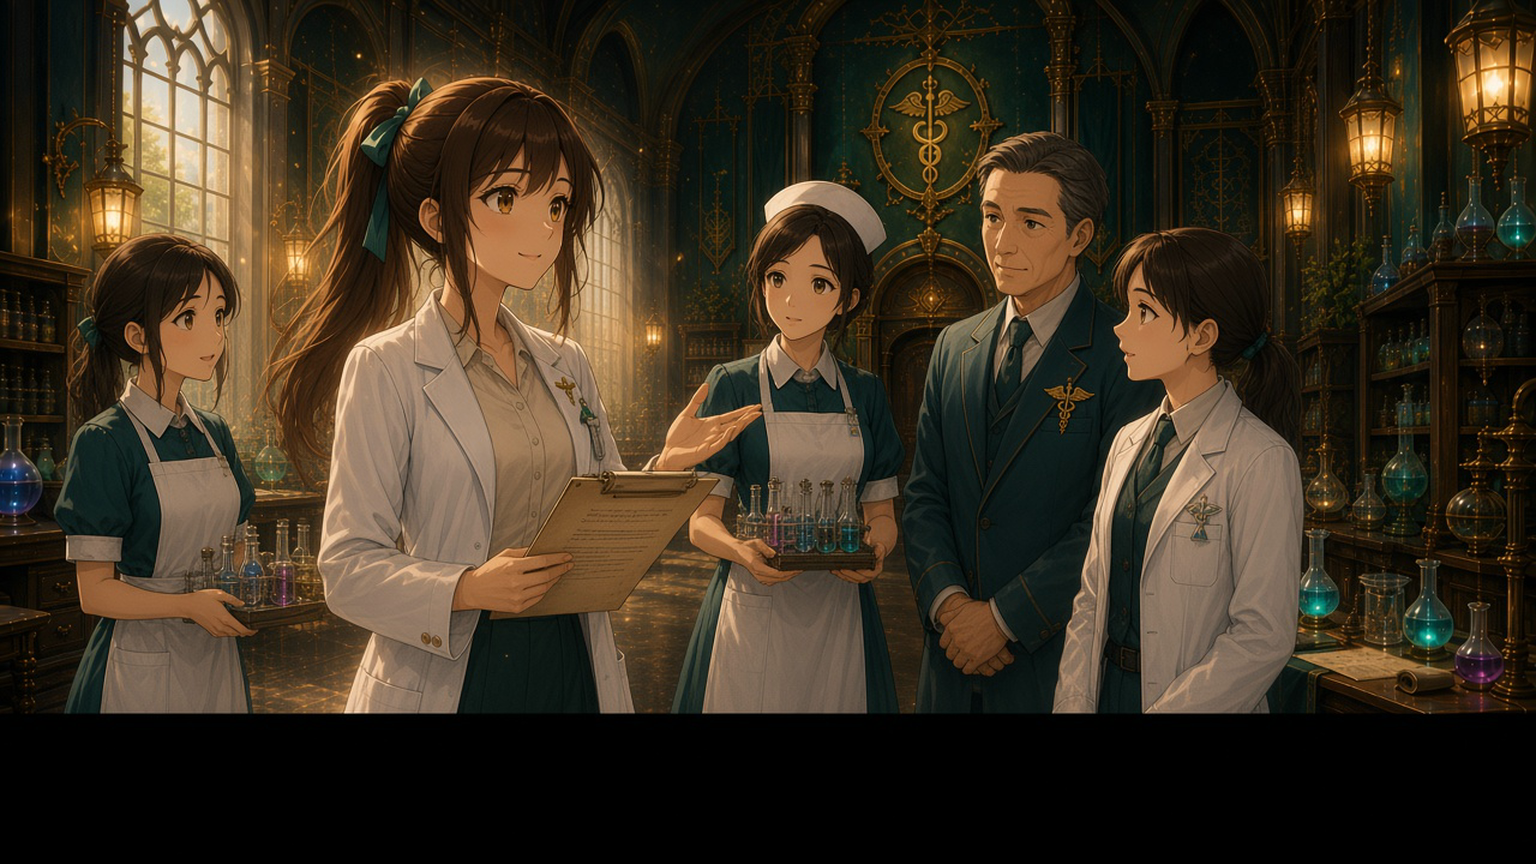
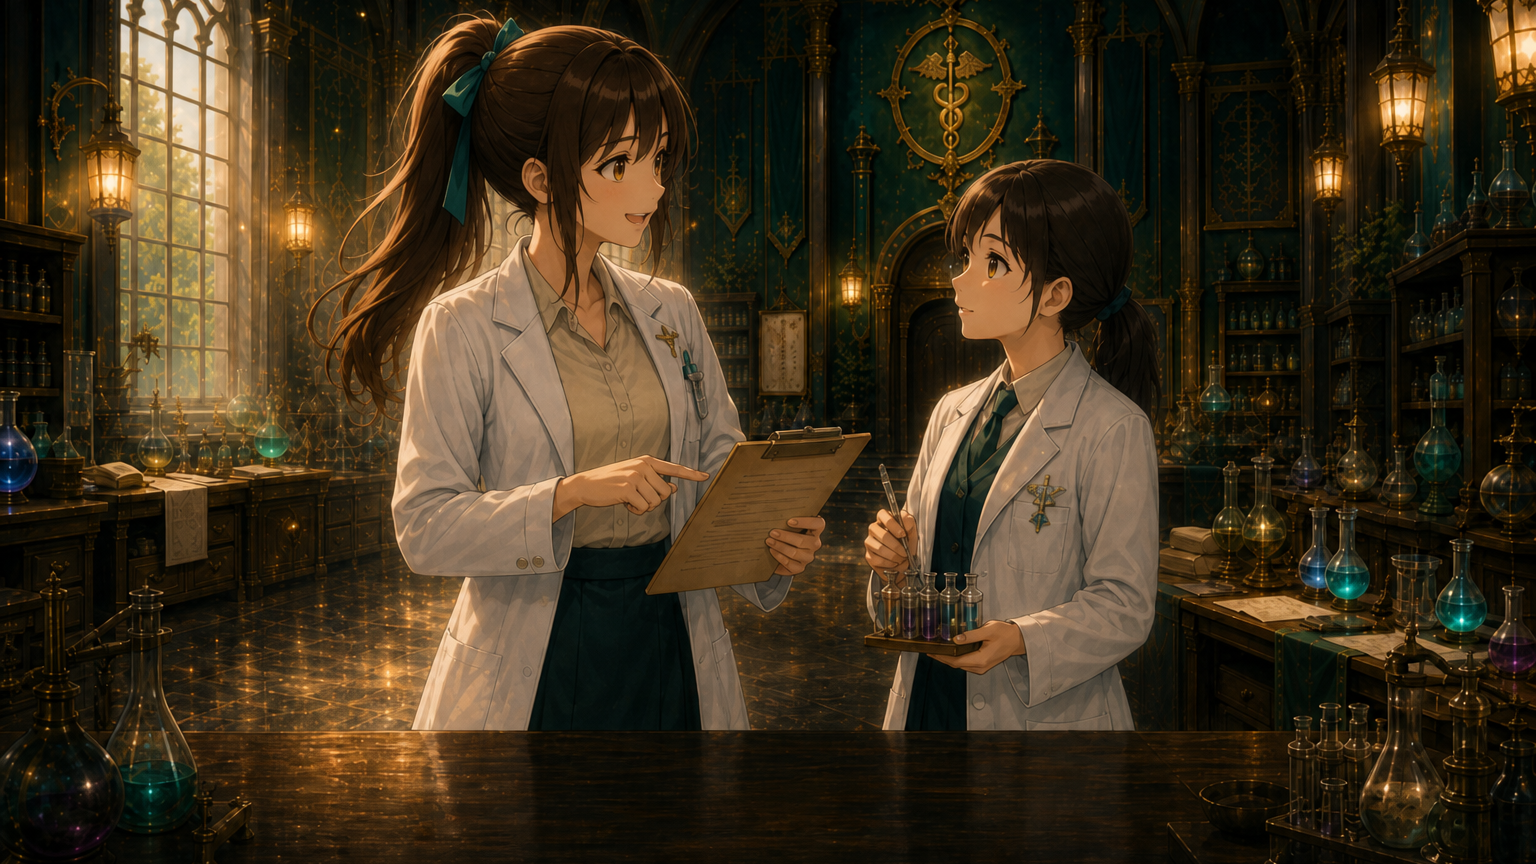
Redraw epilogue background as Aspia teaching one junior
Replace the crowded group shot with a two-person scene so her
gaze and teaching gesture clearly go to a single apprentice.

diff --git a/src/lib/dialogueBackgrounds.ts b/src/lib/dialogueBackgrounds.ts
@@ -16,7 +16,7 @@ export const DIALOGUE_BACKGROUNDS: DialogueBackground[] = [
   { id: 'corridor', label: '廊下', src: '/art/quest-dialogue-bg-corridor.png' },
   // プロローグ「小さな声」用。会話UIに立ち絵レイヤがないため、見習いアスピアを絵の中に入れている。
   { id: 'prologue', label: 'プロローグ（アスピア）', src: '/art/quest-dialogue-bg-prologue.png' },
-  // エピローグ用。立派な技師になったアスピアが、同僚から頼られている場面。
+  // エピローグ用。立派な技師になったアスピアが、後輩1人に教えている場面。
   { id: 'epilogue', label: 'エピローグ（アスピア）', src: '/art/quest-dialogue-bg-epilogue.png' },
 ]
 
